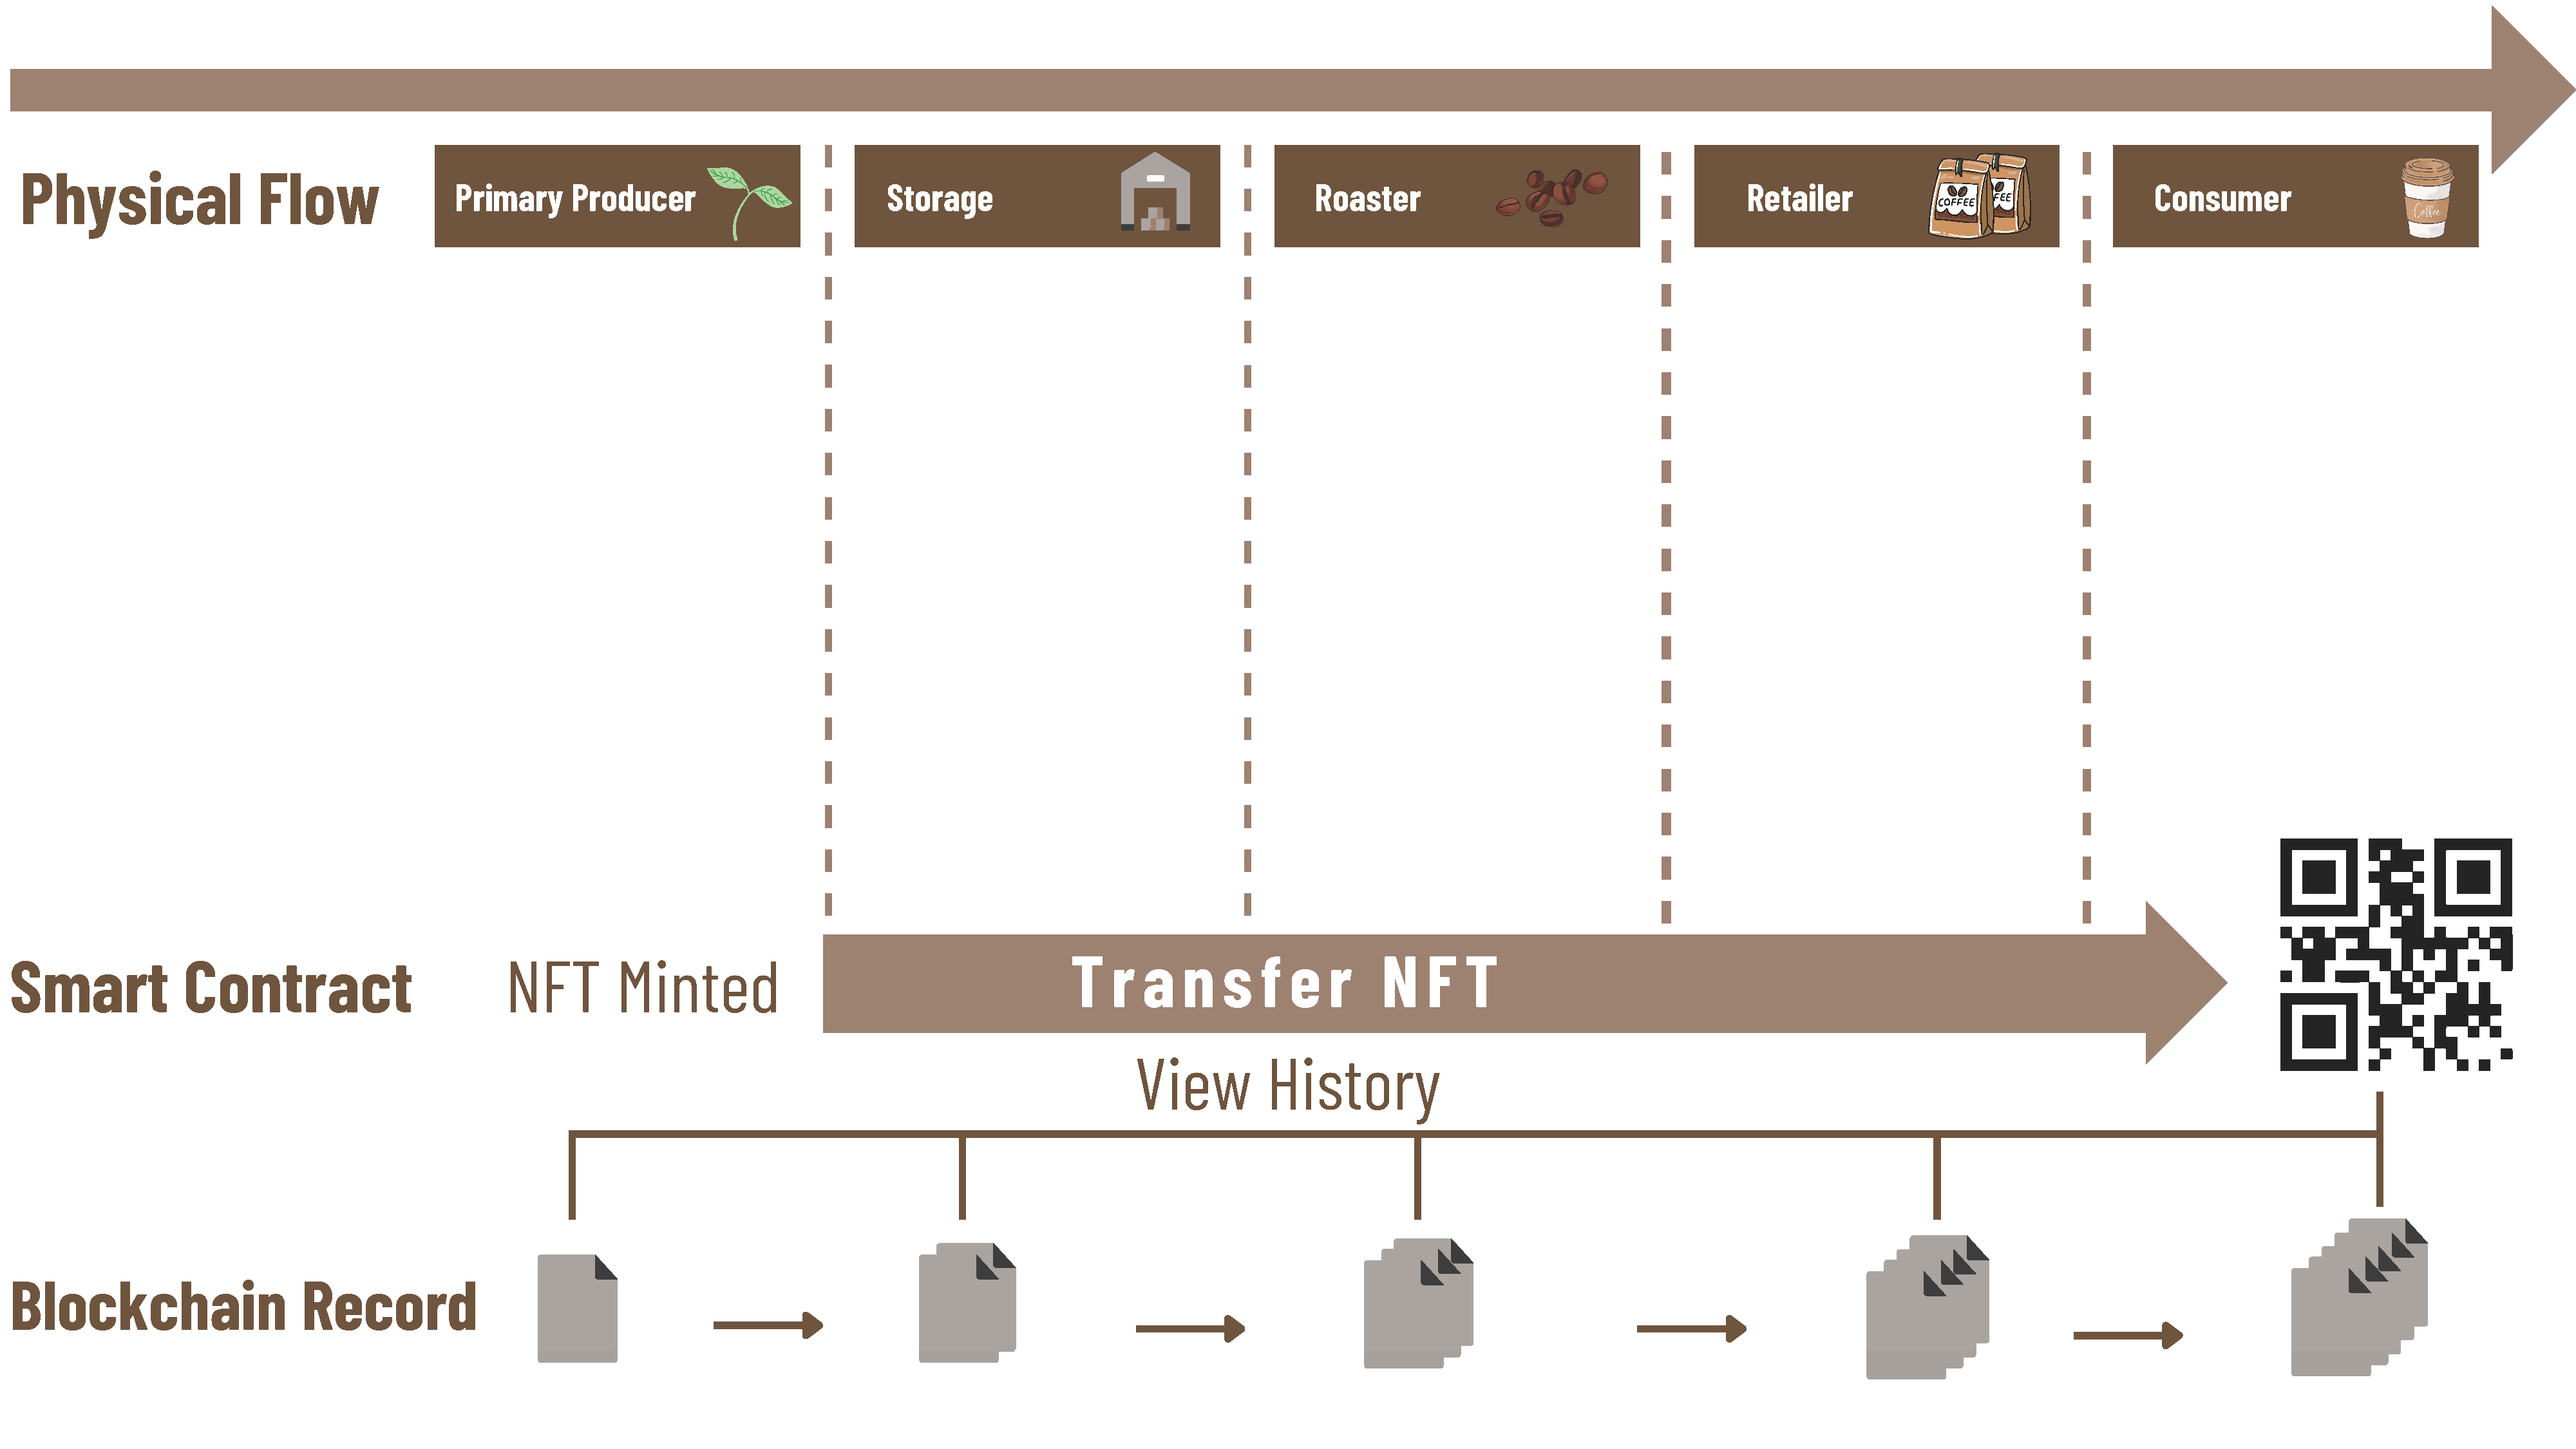
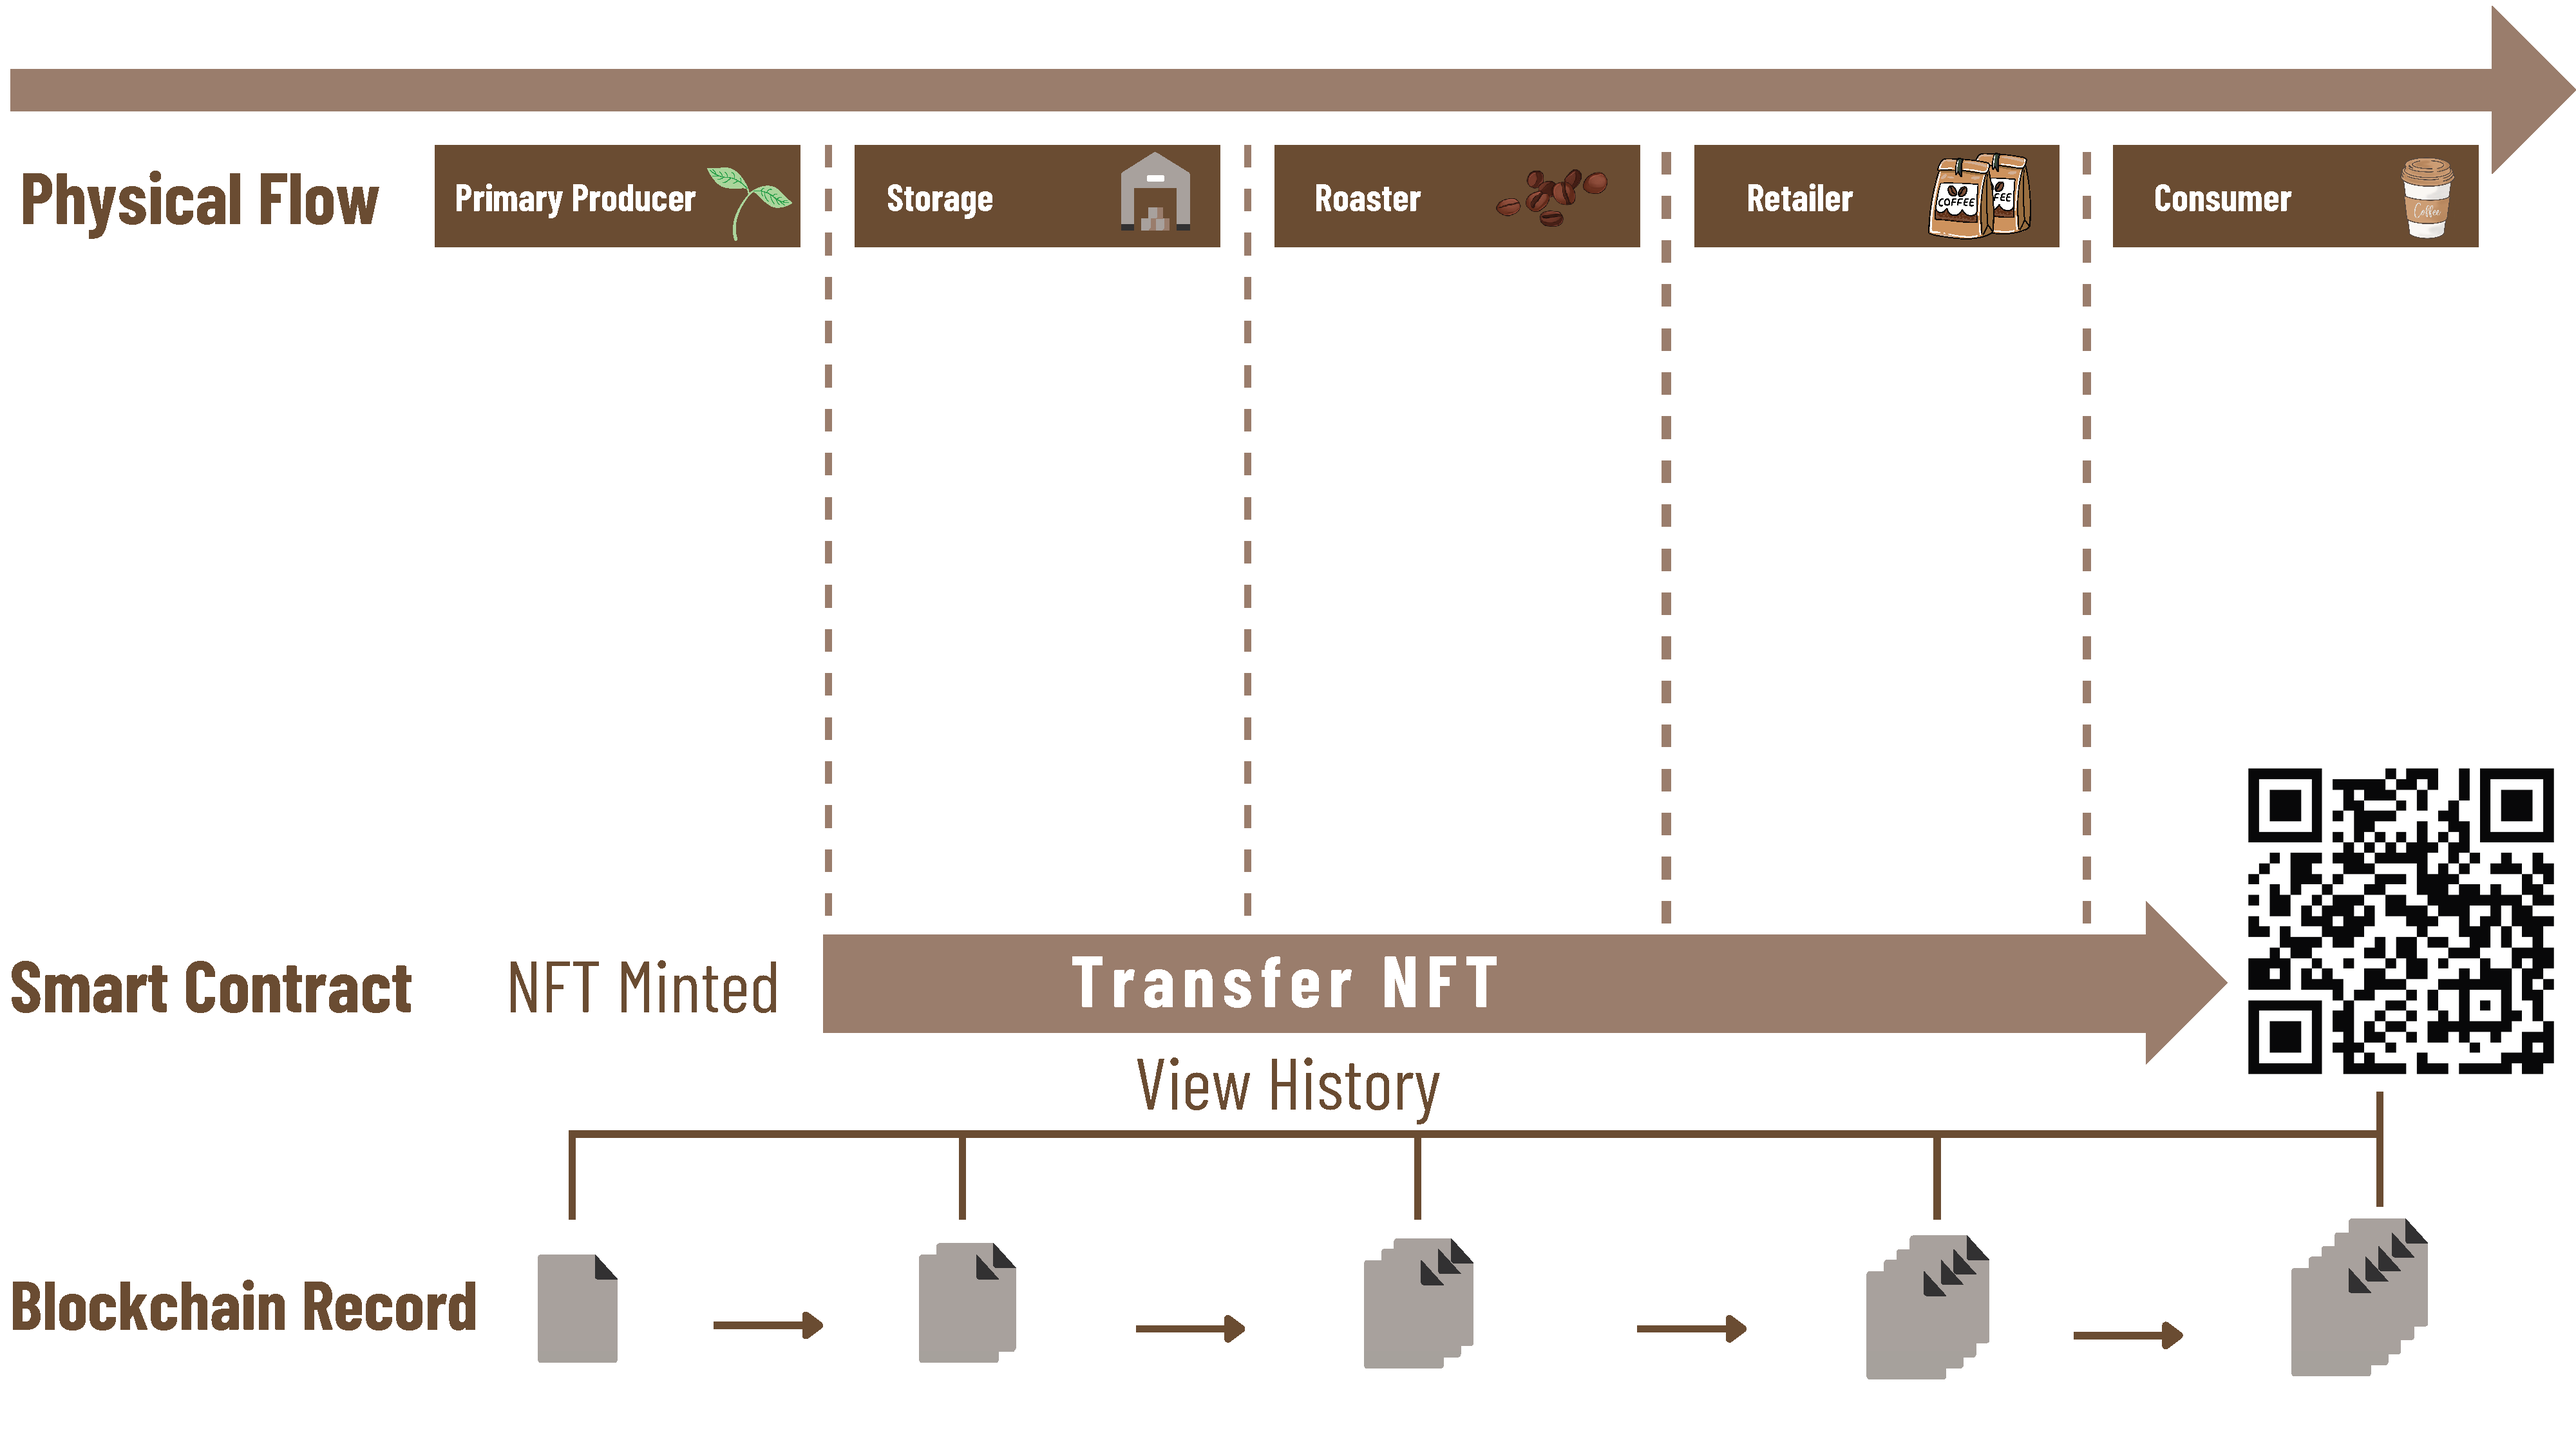
Linked admin app First Page to the smart contract

Changed region(s): [[0.875, 0.5289, 1.0, 0.7467], [0.75, 0.0933, 0.7812, 0.1556]]

diff --git a/admin_app/pages/01_Input Business.py b/admin_app/pages/01_Input Business.py
@@ -7,35 +7,55 @@ from pathlib import Path
 from dotenv import load_dotenv
 import streamlit as st
 import pandas as pd
+from supply_chain import SupplyChainContract
+
 
 # load environment variables
+#load_dotenv()
+#w3 = Web3(Web3.HTTPProvider(os.getenv("WEB3_PROVIDER_URI")))
+#user_address = os.getenv("CONTRACT_USER_ADDRESS")
+## Get a list of addresses on the testnet
+#addresses = w3.eth.accounts
+#
+##Cache and load main contract 
+#@st.cache(allow_output_mutation=True)
+#
+##load contract function
+#def contract_load():
+#    #load abi
+#    with open(Path('../contracts/compiled/coffeeChain.json')) as f: #compiled json file needs to be called contract_abi.json
+#        contract_abi = json.load(f)
+#
+#    #Get contract address 
+#    contract_address = os.getenv("SMART_CONTRACT_ADDRESS")
+#    
+#    #Geting contract
+#    contract = w3.eth.contract(
+#        address=contract_address,
+#        abi=contract_abi
+#    )
+#    return contract
+#
+##Load the contract
+#contract = contract_load()
 load_dotenv()
+w3_providerURI = os.getenv("WEB3_PROVIDER_URI")
+contract_address = os.getenv("SMART_CONTRACT_ADDRESS")
 user_address = os.getenv("CONTRACT_USER_ADDRESS")
-w3 = Web3(Web3.HTTPProvider(os.getenv("WEB3_PROVIDER_URI")))
-# Get a list of addresses on the testnet
-addresses = w3.eth.accounts
+path_to_contract = '../contracts/compiled/coffeeChain.json'
 
-#Cache and load main contract 
-@st.cache(allow_output_mutation=True)
-
-#load contract function
-def contract_load():
-    #load abi
-    with open(Path('../contracts/compiled/coffeeChain.json')) as f: #compiled json file needs to be called contract_abi.json
-        contract_abi = json.load(f)
-
-    #Get contract address 
-    contract_address = os.getenv("SMART_CONTRACT_ADDRESS")
-    
-    #Geting contract
-    contract = w3.eth.contract(
-        address=contract_address,
-        abi=contract_abi
+# Init supply chain contract
+contract = SupplyChainContract(
+    w3_providerURI,
+    path_to_contract,
+    contract_address,
+    user_address
     )
-    return contract
 
-#Load the contract
-contract = contract_load()
+# list of addresses on the testnet
+addresses = contract.w3_provider.eth.accounts
+
+# Create a Dataframe
 df = pd.DataFrame()
 
 # Title
@@ -62,11 +82,9 @@ if st.sidebar.button("View Details"):
 #TODO BUTTON TO LINK TO SMART CONTRACT AND STORE DATA IN THE BLOCKCHAIN
 
 if st.button("Add Business"):
-    if contract.functions.Nodes(address):
-        st.write("Business already exists")
-    else:
-        contract.functions.addNode(address, name, node_type, latitude, longitude).transact({'from': user_address})
-        st.write("Business added")
-
-# Write tokenID
-# 
+    df = df.append(
+        {'address': address, 'name': name, 'node_type': node_type, 'lat': latitude, 'lon': longitude, 'coffeebag': coffeebag}, ignore_index=True)
+    st.write(df)
+    st.map(df)
+    contract.add_node(address, name, node_type, latitude, longitude)
+    st.write(f'{contract.get_node(address)} has been added to the Smart Contract')

diff --git a/admin_app/pages/02_Add Batch.py b/admin_app/pages/02_Add Batch.py
@@ -10,6 +10,7 @@ from PIL import Image
 import cv2
 import qrcode
 from decimal import Decimal
+from supply_chain import SupplyChainContract
 
 load_dotenv()
 user_address = os.getenv("CONTRACT_USER_ADDRESS")
@@ -72,13 +73,12 @@ if st.button("Add Batch"):
 
 #TODO value_wei = Web3.toWei(Decimal(value), 'ether')
 
-# QR Code 
-# QRcode functions
 
+################################################################
 def generate_qrcode(input_str, file_name):
 #Generate QR code
     qr_img = qrcode.make(input_str)  
-    #Save image file   
+#Save image file   
     qr_img.save(file_name+'.png')
     file_name_ = file_name+'.png'
     return qr_img, file_name_
@@ -109,14 +109,20 @@ def read_qrcode(file_name):
 
 
 #Streamlit QR code generator inputs and buttons
-st.subheader('Generate QR code')
+
+### potentually change QR code inputs to token ids or any backend data
+st.markdown('# QR code Website')
 qr_code_content = st.text_input('Enter Streamlit Web App link')
 qr_code_filename = st.text_input('QR code "File Name"')
 
 qr_CODE = generate_qrcode(qr_code_content, qr_code_filename)
 
-#Streamlit web app QR code button functions,
-button1, button2, button3, button4 = st.columns([1,1,1,1,])
+#save file name as a csv to be accessed by the customer app
+file_name_data = pd.DataFrame({'data': [qr_code_filename]})
+file_name_data.to_csv('file_name.csv', index=False) ##Saved csv LOCATION is important as customer_frontend app must access the data
+
+#Streamlit web app QR code button functions
+button1, button2 = st.columns([1,1])
 
 with button1:
     show_qrcode() #show qr code that was generated
@@ -125,32 +131,4 @@ with button2: #read qr code button row
     if st.button('Read last QR code'):
         st.write(read_qrcode(file_name=qr_CODE[1])) #read the qr code
 
-
-##NOT completed:
-with button3:
-    #Generate QR code
-    #info = read_qrcode(file_name=qr_CODE[1])
-    #qr_img = qrcode.make(info)  
-    
-
-    if st.button('Download'): #NOT WORKING YET
-        #imageb = Image.open(qr_CODE[1])
-        #b = bytearray(imageb)
-        #st.download_button('Download', b, file_name='QR_code')
-    
-        st.write('error occured')
-
-
-
-with button4:
-    if st.button('Coffee?'):
-        st.balloons()
-        st.write('Coffeeeeee!')
-
-#upload file section
-#uploaded_file = st.file_uploader("Upload QR Code")
-
-#if uploaded_file is not None:
-#not working
-#upload, save upload(qr code generator code), reconvert it (read qr code code)
 ######################################
